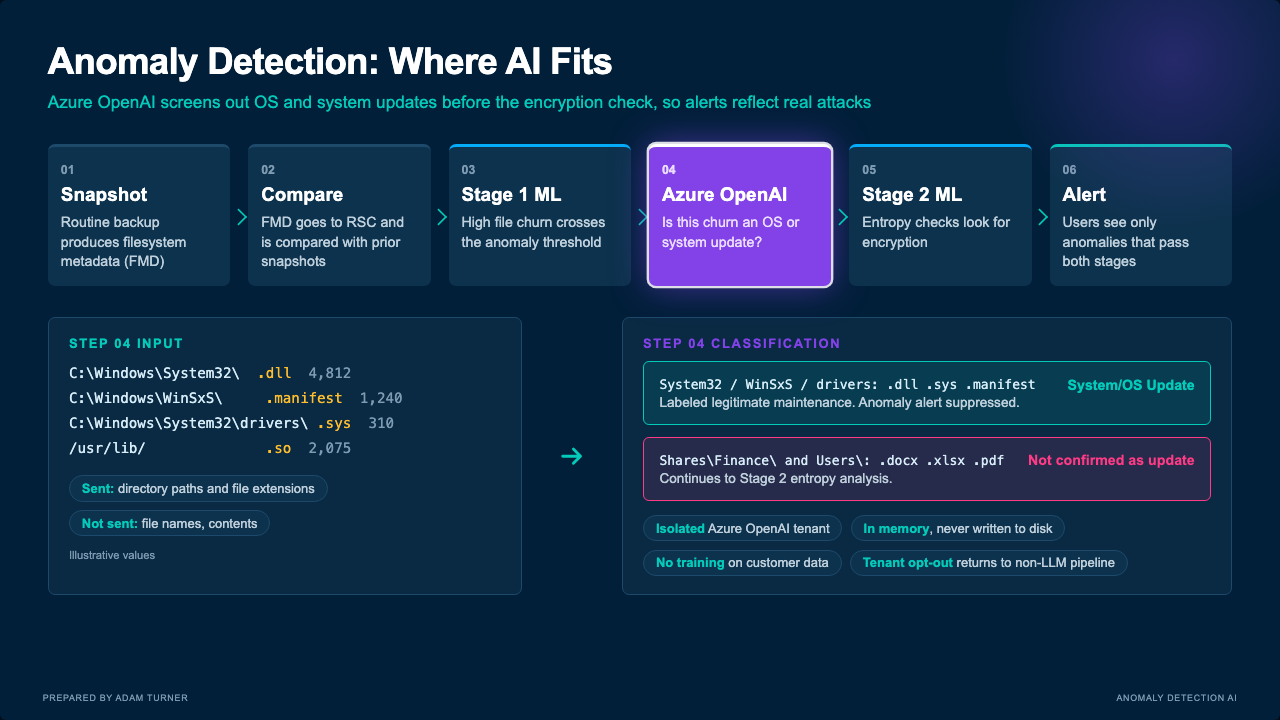
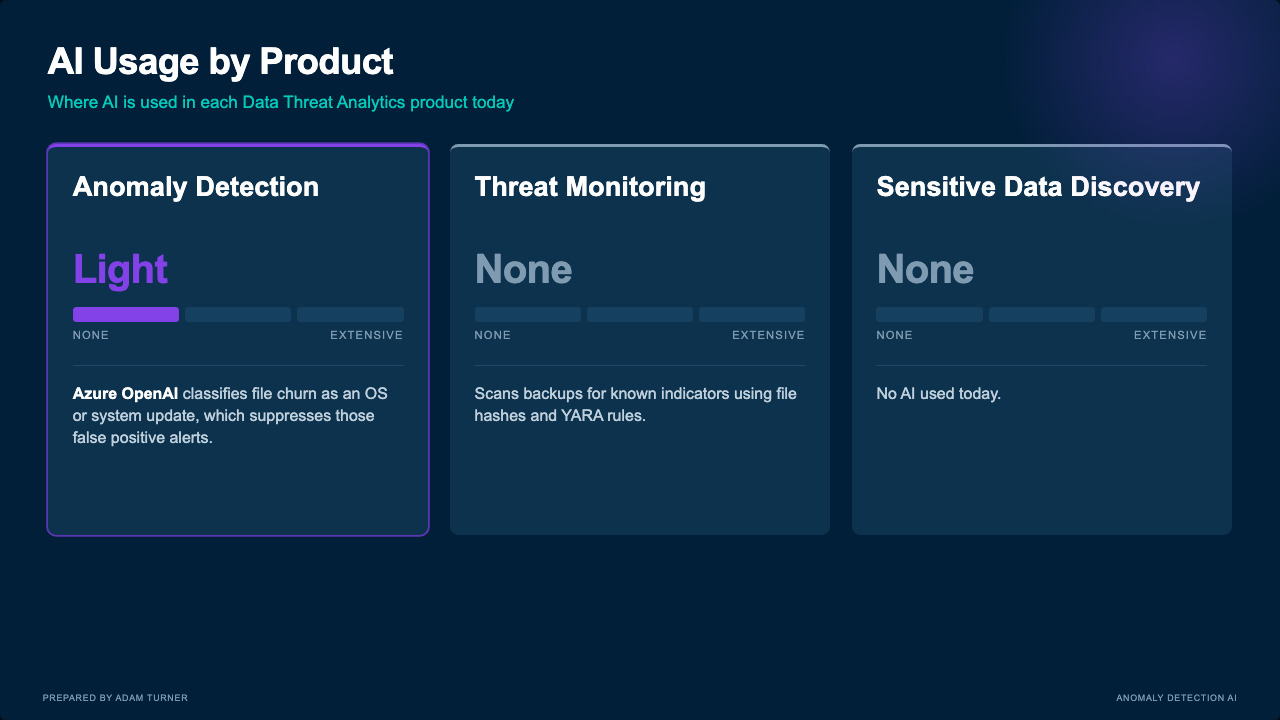
Add AI usage by product slide and closing summary slide

diff --git a/index.html b/index.html
@@ -106,10 +106,63 @@ h1{font-size:3.1cqw;font-weight:700;letter-spacing:-.02em;line-height:1.1}
 .path .tag{color:var(--dim);margin-bottom:.4cqw}
 .path svg{width:100%;display:block}
 .path text{font-family:Arial,Helvetica,sans-serif}
+
+/* ---------- summary slide ---------- */
+.prod{display:grid;grid-template-columns:repeat(3,1fr);gap:1.8cqw;margin-top:2.6cqw}
+.pc{background:var(--card);border-radius:.7cqw;padding:2cqw 2.1cqw;border-top:.3cqw solid var(--c);height:33cqw;position:relative}
+.pc.light{--c:var(--purple);box-shadow:0 0 0 .15cqw rgba(130,66,232,.7)}
+.pc.none{--c:var(--dim)}
+.pc h2{font-size:2.3cqw;line-height:1.15;min-height:5.4cqw}
+.pc .lvl{font-size:3.4cqw;font-weight:700;color:var(--c);margin-top:1cqw;letter-spacing:-.02em}
+.meter{display:grid;grid-template-columns:repeat(3,1fr);gap:.5cqw;margin-top:1.2cqw}
+.meter i{height:1.3cqw;border-radius:.3cqw;background:#16405F}
+.meter i.on{background:var(--c)}
+.mlab{display:flex;justify-content:space-between;font-size:.95cqw;letter-spacing:.1em;text-transform:uppercase;color:var(--dim);margin-top:.6cqw}
+.pc p{font-size:1.35cqw;color:var(--muted);line-height:1.4;margin-top:2cqw;border-top:.08cqw solid var(--line);padding-top:1.4cqw}
+.pc p b{color:#fff}
+
+.sum{display:grid;grid-template-columns:1fr 1fr 1fr;gap:1.8cqw;margin-top:2.6cqw}
+.sc{background:var(--card);border-radius:.7cqw;padding:1.9cqw 2cqw;border-top:.3cqw solid var(--c);height:33cqw}
+.sc.td{--c:var(--teal)} .sc.o1{--c:var(--blue)} .sc.o2{--c:var(--purple)}
+.sc .tag{color:var(--c)}
+.sc h2{font-size:2cqw;margin:.7cqw 0 1cqw;line-height:1.2}
+.sc li{list-style:none;font-size:1.3cqw;color:var(--muted);line-height:1.4;padding:.8cqw 0 .8cqw 1.6cqw;position:relative;border-top:.08cqw solid var(--line)}
+.sc li::before{content:"";position:absolute;left:0;top:1.3cqw;width:.7cqw;height:.7cqw;border-radius:50%;background:var(--c)}
+.sc li b{color:#fff}
 </style>
 </head>
 <body>
 <div class="deck">
+
+<!-- ================= SUMMARY ================= -->
+<section class="slide">
+  <h1>AI Usage by Product</h1>
+  <p class="sub">Where AI is used in each Data Threat Analytics product today</p>
+  <div class="prod">
+    <div class="pc light">
+      <h2>Anomaly Detection</h2>
+      <div class="lvl">Light</div>
+      <div class="meter"><i class="on"></i><i></i><i></i></div>
+      <div class="mlab"><span>None</span><span>Extensive</span></div>
+      <p><b>Azure OpenAI</b> classifies file churn as an OS or system update, which suppresses those false positive alerts.</p>
+    </div>
+    <div class="pc none">
+      <h2>Threat Monitoring</h2>
+      <div class="lvl">None</div>
+      <div class="meter"><i></i><i></i><i></i></div>
+      <div class="mlab"><span>None</span><span>Extensive</span></div>
+      <p>Scans backups for known indicators using file hashes and YARA rules.</p>
+    </div>
+    <div class="pc none">
+      <h2>Sensitive Data Discovery</h2>
+      <div class="lvl">None</div>
+      <div class="meter"><i></i><i></i><i></i></div>
+      <div class="mlab"><span>None</span><span>Extensive</span></div>
+      <p>No AI used today.</p>
+    </div>
+  </div>
+  <div class="foot"><span>Prepared by Adam Turner</span><span>Anomaly Detection AI</span></div>
+</section>
 
 <!-- ================= SLIDE 1 ================= -->
 <section class="slide">
@@ -283,6 +336,43 @@ h1{font-size:3.1cqw;font-weight:700;letter-spacing:-.02em;line-height:1.1}
         <rect x="995" y="100" width="110" height="28" rx="14" fill="rgba(255,59,133,.15)" stroke="#FF3B85"/><text x="1050" y="119" fill="#FF3B85">Recover</text>
       </g>
     </svg>
+  </div>
+  <div class="foot"><span>Prepared by Adam Turner</span><span>Anomaly Detection AI</span></div>
+</section>
+
+<!-- ================= CLOSING SUMMARY ================= -->
+<section class="slide">
+  <h1>AI Usage with Data Threat Analytics</h1>
+  <p class="sub">One product uses AI today. Two concepts extend it to threat hunting and log analysis</p>
+  <div class="sum">
+    <div class="sc td">
+      <div class="tag">In product today</div>
+      <h2>Anomaly Detection</h2>
+      <ul>
+        <li><b>Azure OpenAI</b> classifies file churn as an OS or system update</li>
+        <li>Sends directory paths and file extensions only</li>
+        <li>Suppressed updates never reach the Stage 2 entropy check or the user</li>
+        <li>Isolated tenant, in-memory processing, no training on customer data, tenant opt-out</li>
+      </ul>
+    </div>
+    <div class="sc o1">
+      <div class="tag">Concept</div>
+      <h2>Threat Monitoring and Hunting</h2>
+      <ul>
+        <li>No AI today: hashes and YARA rules</li>
+        <li><b>AI file targeting</b> chooses which files and paths to scan</li>
+        <li><b>AI analysis of the whole OS</b> examines binaries, services, configuration and persistence</li>
+      </ul>
+    </div>
+    <div class="sc o2">
+      <div class="tag">Concept</div>
+      <h2>Backup Scanning for Logs</h2>
+      <ul>
+        <li>OS and cloud account logs protected in backup</li>
+        <li><b>AI log analysis</b> reconstructs the attack path</li>
+        <li>Output sorts what to recover from what to clean</li>
+      </ul>
+    </div>
   </div>
   <div class="foot"><span>Prepared by Adam Turner</span><span>Anomaly Detection AI</span></div>
 </section>
